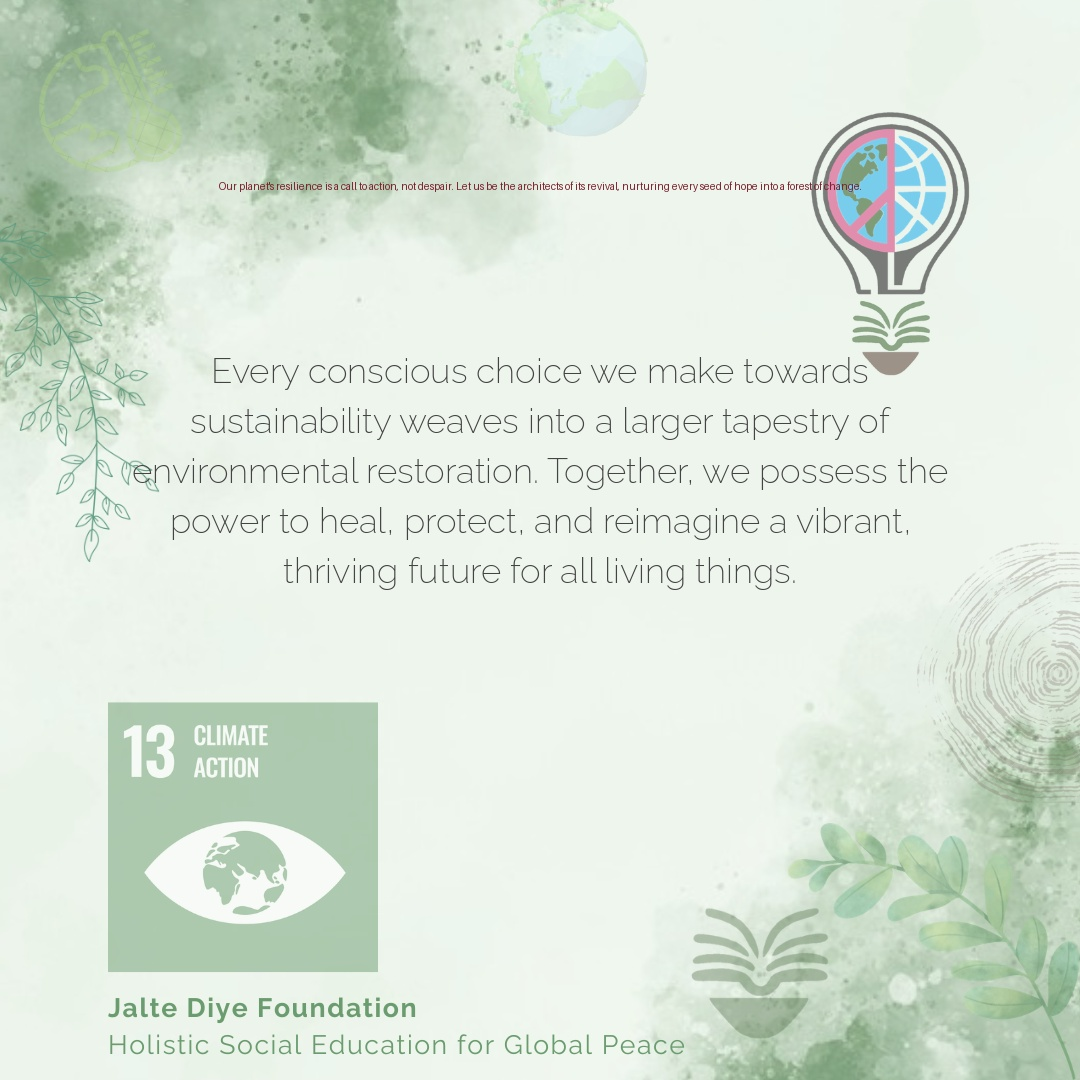
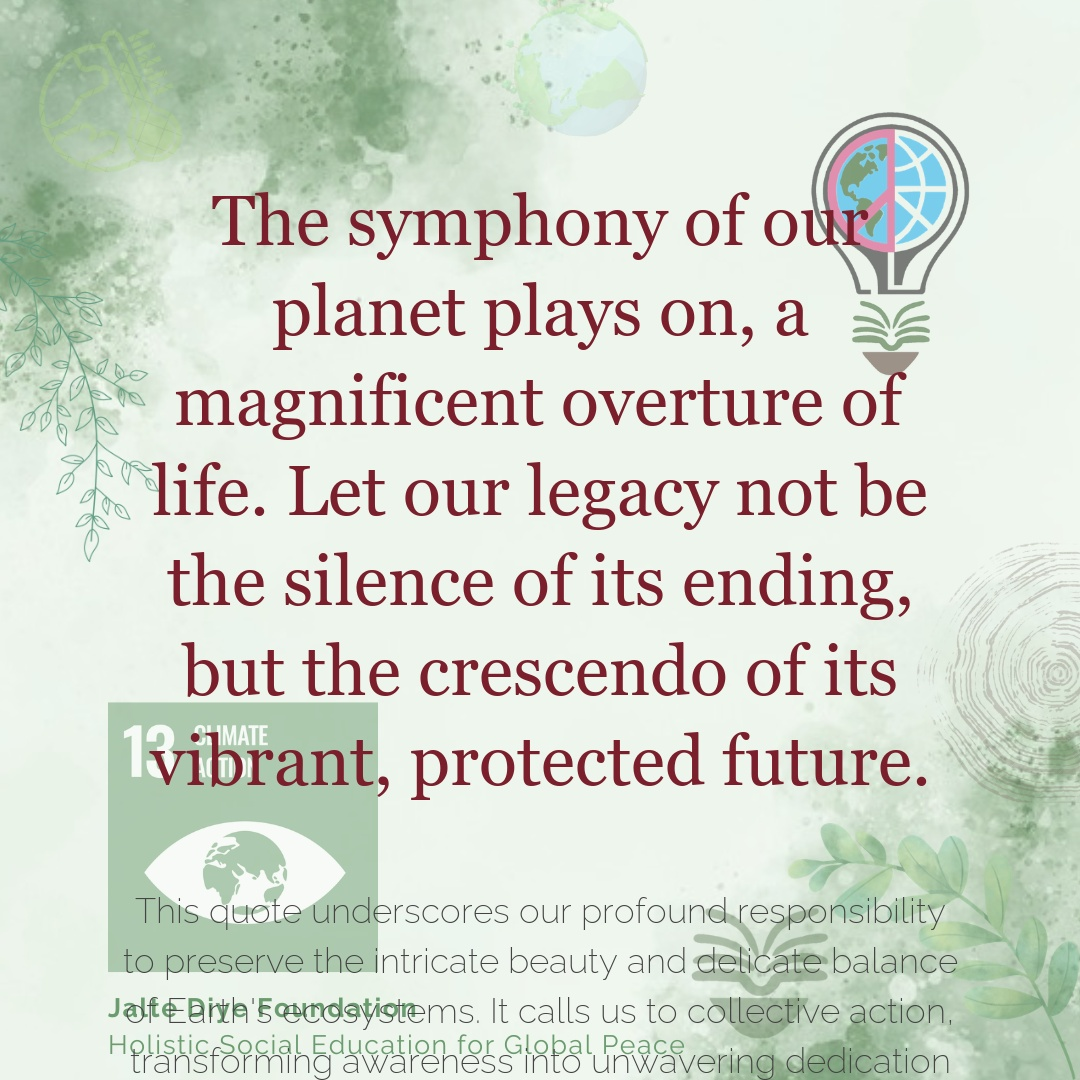
Fix all poster layouts and theme colors

diff --git a/rendering/poster_generator.py b/rendering/poster_generator.py
@@ -74,7 +74,91 @@ def wrap_text(
     return lines
 
 
+THEME_COLORS = {
+    "Climate & Environment": {
+        "quote": "#6A8E5A",
+        "explanation": "#7A8C73",
+    },
+    "Peace & Justice": {
+        "quote": "#5C8DB8",
+        "explanation": "#6D8FA8",
+    },
+    "Social Education": {
+        "quote": "#D25A6E",
+        "explanation": "#A86F7B",
+    },
+    "Women Empowerment": {
+        "quote": "#dd1c4b",
+        "explanation": "#b9123c",
+    },
+    "Health & Mindfulness": {
+        "quote": "#8c6239",
+        "explanation": "#a17850",
+    },
+    "Foundation Events": {
+        "quote": "#8c6239",
+        "explanation": "#a17850",
+    },
+}
 
+START_Y = {
+    "Climate & Environment": 240,
+    "Peace & Justice": 260,
+    "Social Education": 260,
+    "Women Empowerment": 300,
+    "Health & Mindfulness": 260,
+    "Foundation Events": 260,
+}
+
+THEME_LAYOUT = {
+    "Quality Education": {
+        "quote_x": 280,
+        "quote_y": 250,
+        "quote_width": 450,
+        "quote_color": "#E55B6A",
+        "exp_color": "#D76A78",
+    },
+
+    "Women Empowerment": {
+        "quote_x": 290,
+        "quote_y": 260,
+        "quote_width": 430,
+        "quote_color": "#E95A7A",
+        "exp_color": "#D96A88",
+    },
+
+    "Climate & Environment": {
+        "quote_x": 280,
+        "quote_y": 200,
+        "quote_width": 470,
+        "quote_color": "#5A9E6A",
+        "exp_color": "#7FA67E",
+    },
+
+    "Peace & Justice": {
+        "quote_x": 270,
+        "quote_y": 200,
+        "quote_width": 420,
+        "quote_color": "#4A8FD8",
+        "exp_color": "#5A9FD8",
+    },
+
+    "Health & Mindfulness": {
+        "quote_x": 280,
+        "quote_y": 240,
+        "quote_width": 450,
+        "quote_color": "#8C6239",
+        "exp_color": "#A17850",
+    },
+
+    "Foundation Events": {
+        "quote_x": 280,
+        "quote_y": 240,
+        "quote_width": 450,
+        "quote_color": "#8C6239",
+        "exp_color": "#A17850",
+    },
+}
 class PosterGenerator:
 
 
@@ -100,8 +184,12 @@ class PosterGenerator:
         explanation,
         background_path,
         output_path,
-        layout_name
+        layout_name,
+        theme_name=None
     ):
+        print("INSIDE POSTER_GENERATOR")
+        print("Theme =", theme_name)
+        print("Layout =", layout_name)
 
 
         if not os.path.exists(background_path):
@@ -131,18 +219,23 @@ class PosterGenerator:
 
         draw = ImageDraw.Draw(image)
 
+        theme = THEME_LAYOUT.get(
+            theme_name,
+            THEME_LAYOUT["Quality Education"]
+        )
+
 
 
         quote_font = load_font(
             self.fonts["quote_font_name"],
-            70,
+            30,
             self.project_root
         )
 
 
         explanation_font = load_font(
             self.fonts["explanation_font_name"],
-            35,
+            16,
             self.project_root
         )
 
@@ -152,7 +245,7 @@ class PosterGenerator:
         overlay = Image.new(
             "RGBA",
             image.size,
-            (255, 255, 255, 60)
+            (255, 255, 255, 20)
         )
 
         image = Image.alpha_composite(
@@ -169,27 +262,26 @@ class PosterGenerator:
             quote,
             quote_font,
             draw,
-            850
+            theme["quote_width"]
         )
 
 
-        y = 180
-        image_center_x = image.width // 2
+        x = theme["quote_x"]
+        y = theme["quote_y"]
 
 
         for line in quote_lines:
 
-            line_width = draw.textbbox((0, 0), line, font=quote_font)[2]
-            x = image_center_x - (line_width // 2)
+            x = theme["quote_x"]
 
             draw.text(
                 (x, y),
                 line,
                 font=quote_font,
-                fill="#7a1f2b"
+                fill=theme["quote_color"]
             )
 
-            y += 90
+            y += 45
 
 
 
@@ -197,27 +289,26 @@ class PosterGenerator:
             explanation,
             explanation_font,
             draw,
-            850
+            theme["quote_width"]
         )
 
 
-        y += 80
+        y += 25
 
 
         for line in exp_lines:
 
-            line_width = draw.textbbox((0, 0), line, font=explanation_font)[2]
-            x = image_center_x - (line_width // 2)
+            x = theme["quote_x"]
 
             draw.text(
                 (x, y),
                 line,
                 font=explanation_font,
-                fill="#444444"
+                fill=theme["exp_color"]
             )
 
 
-            y += 50
+            y += 24
 
 
 

diff --git a/scheduler/daily_runner.py b/scheduler/daily_runner.py
@@ -187,6 +187,7 @@ def run_daily_pipeline(
             background_path=background_path,
             output_path=output_path,
             layout_name=layout_name,
+            theme_name=theme,
         )
         logger.info("Poster creation succeeded: %s", output_path)
 
@@ -229,3 +230,5 @@ def run_daily_pipeline(
 
     logger.info("Daily pipeline completed successfully.")
     return result
+if __name__ == "__main__":
+    run_daily_pipeline()